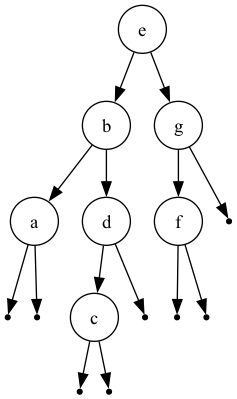
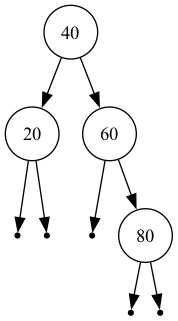
Update test cased and license

diff --git a/main.cpp b/main.cpp
@@ -1,3 +1,17 @@
+/*
+ * This project is licensed under the MIT License.
+ * See the LICENSE file for details.
+ */
+
+/**
+ * This project focuses on implementing and visualizing an Optimal Binary Search Tree (OBST),
+ * a specialized data structure designed to minimize search costs when access probabilities are known.
+ * It includes a dynamic programming algorithm to construct the OBST,
+ * ensuring optimal arrangement of keys based on their probabilities.
+ * Additionally, the project generates DOT files to visually represent the tree structure,
+ * complete with null pointers and node connections, making the OBST easy to analyze and understand.
+ */
+
 /**
  * @file main.cpp
  * @brief Entry point for the Optimal Binary Search Tree (OBST) project.
@@ -5,6 +19,13 @@
  * This file initializes and runs the OBST application. It demonstrates how to compute
  * the OBST using given probabilities and labels using DP, providing an interactive educational
  * tool for understanding OBST concepts.
+ *
+ * This project focuses on implementing and visualizing an Optimal Binary Search Tree (OBST),
+ * a specialized data structure designed to minimize search costs when access probabilities are known.
+ * It includes a dynamic programming algorithm to construct the OBST,
+ * ensuring optimal arrangement of keys based on their probabilities.
+ * Additionally, the project generates DOT files to visually represent the tree structure,
+ * complete with null pointers and node connections, making the OBST easy to analyze and understand.
  */
 
 #include <iostream>
@@ -14,14 +35,12 @@
 #include "TreeVisualization.h" // Generates DOT files for tree visualization.
 
 /**
- * @brief Main function for testing the Optimal Binary Search Tree (OBST) application.
+ * @brief Main function for running and testing the Optimal Binary Search Tree (OBST) application.
  *
  * This function performs the following steps:
  * 1. Initializes data for probabilities and node labels.
  * 2. Calls the OBST algorithm to compute the tree structure and related metrics.
  * 3. Displays the resulting tree structure and outputs the execution results.
- *
- * @return int Exit code (0 for success).
  */
 int main()
 {
@@ -30,20 +49,20 @@ int main()
   // **INPUT DATA SETUP**
   // Data to be input by the user (hardcoded for simplicity in this implementation).
 
-  int n = 7;                                                          // Number of nodes in the tree.
-  Vector<float> p = {0, 0.15, 0.10, 0.05, 0.10, 0.20, 0.10, 0.20};    // Probabilities of successful searches. size = n+1
-  Vector<float> q = {0.05, 0.10, 0.05, 0.05, 0.05, 0.10, 0.05, 0.15}; // Probabilities of unsuccessful searches. size = n+1
+  // int n = 7;                                                          // Number of nodes in the tree.
+  // Vector<float> p = {0, 0.15, 0.10, 0.05, 0.10, 0.20, 0.10, 0.20};    // Probabilities of successful searches. size = n+1
+  // Vector<float> q = {0.05, 0.10, 0.05, 0.05, 0.05, 0.10, 0.05, 0.15}; // Probabilities of unsuccessful searches. size = n+1
 
-  // Labels for nodes (keys). These represent the values associated with the nodes in the OBST. size = n
-  Vector<std::string> labels = {
-      "a",
-      "b",
-      "c",
-      "d",
-      "e",
-      "f",
-      "g",
-  };
+  // // Labels for nodes (keys). These represent the values associated with the nodes in the OBST. size = n
+  // Vector<std::string> labels = {
+  //     "a",
+  //     "b",
+  //     "c",
+  //     "d",
+  //     "e",
+  //     "f",
+  //     "g",
+  // };
 
   // ? Test case 1
   // int n = 30;
@@ -74,25 +93,31 @@ int main()
   //  Vector<float> q = {0, 0, 0, 0};
   //  Vector<std::string> labels = {"10", "12", "20"};
 
+  // ? Test case 4, from this video: https://www.youtube.com/watch?v=67Y_Ww_-Jaw
+  int n = 4;
+  Vector<float> p = {0, 3, 3, 1, 1};
+  Vector<float> q = {2, 3, 1, 1, 1};
+  Vector<std::string> labels = {"20", "40", "60", "80"};
+
   // **OBST GENERATION**
   // The `OBST::generateTheOBST` function computes the OBST using:
   // - Probabilities of successful searches (`p`).
   // - Probabilities of unsuccessful searches (`q`).
   // - Node labels (`labels`).
   // The `true` parameter enables intermediate output (debugging or analysis purposes).
-  Tree tree = OBST::generateTheOBST(p, q, labels, false);
+  Tree noiceTree = OBST::generateTheOBST(p, q, labels, false);
 
   // **OUTPUT TREE**
   // Displays the generated tree structure in a readable format.
   std::cout << "MY TREE:" << std::endl;
-  tree.displayTree();
+  noiceTree.displayTree();
 
   // **VISUALIZATION**
   // Generates a DOT file for the tree structure and visualizes it as an image.
   const std::string OUTPUT_IMAGE = "tree.png";
   const std::string DOT_FILE = "tree.dot";
 
-  TreeVisualization::visualizeTree(tree, DOT_FILE, OUTPUT_IMAGE, true);
+  TreeVisualization::visualizeTree(noiceTree, DOT_FILE, OUTPUT_IMAGE, true);
 
   return 0;
 }

diff --git a/Vector.h b/Vector.h
@@ -137,12 +137,12 @@ public:
   /**
    * @brief Display the elements of the vector.
    *
-   * This function prints all the elements of the vector to the console, separated by spaces.
+   * This function prints all the elements of the vector to the console.
    */
-  void display()
+  void display(std::string sep = " ")
   {
     for (int i = 0; i < len; ++i)
-      std::cout << data[i] << " ";
+      std::cout << data[i] << sep;
 
     std::cout << std::endl;
   }
